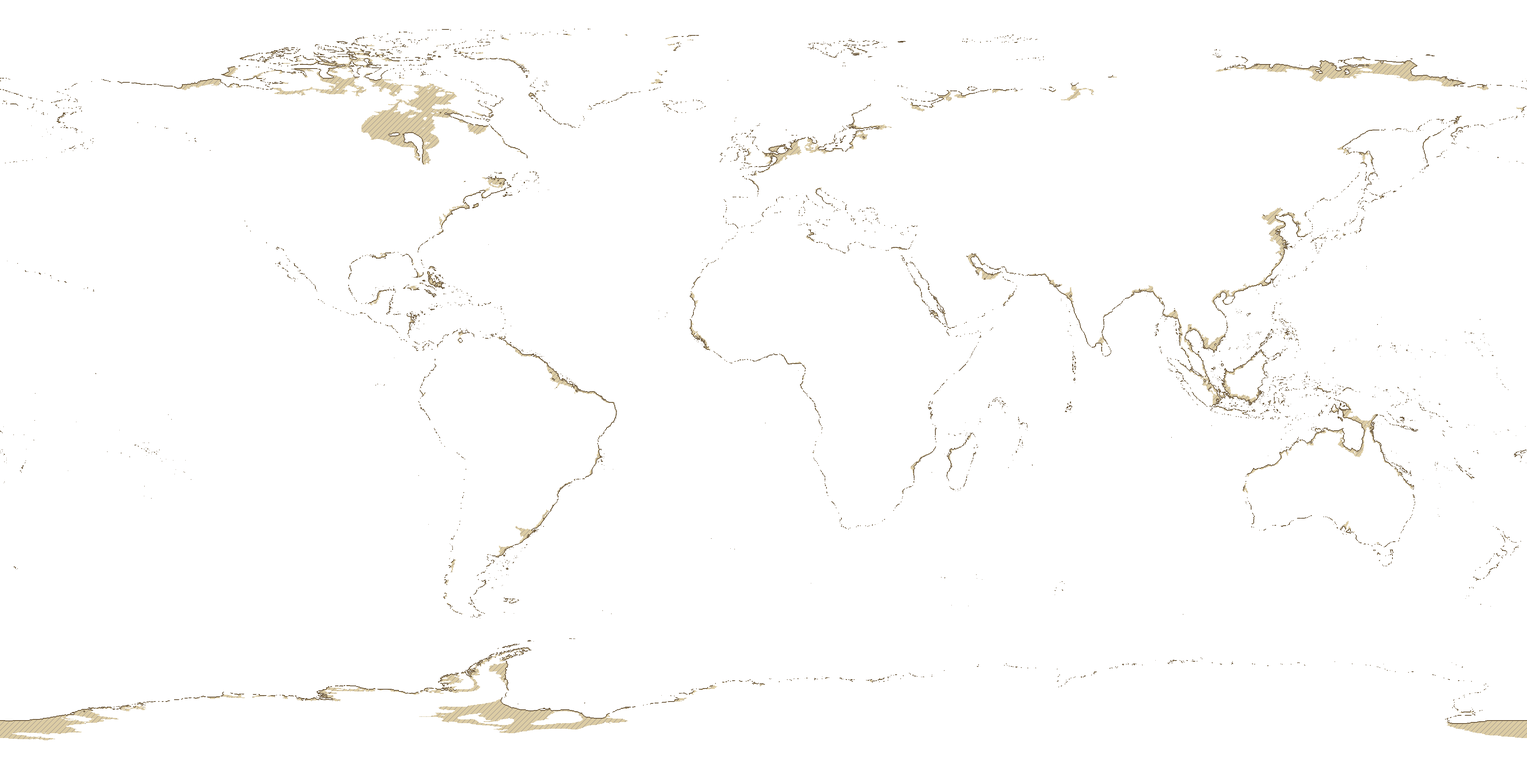
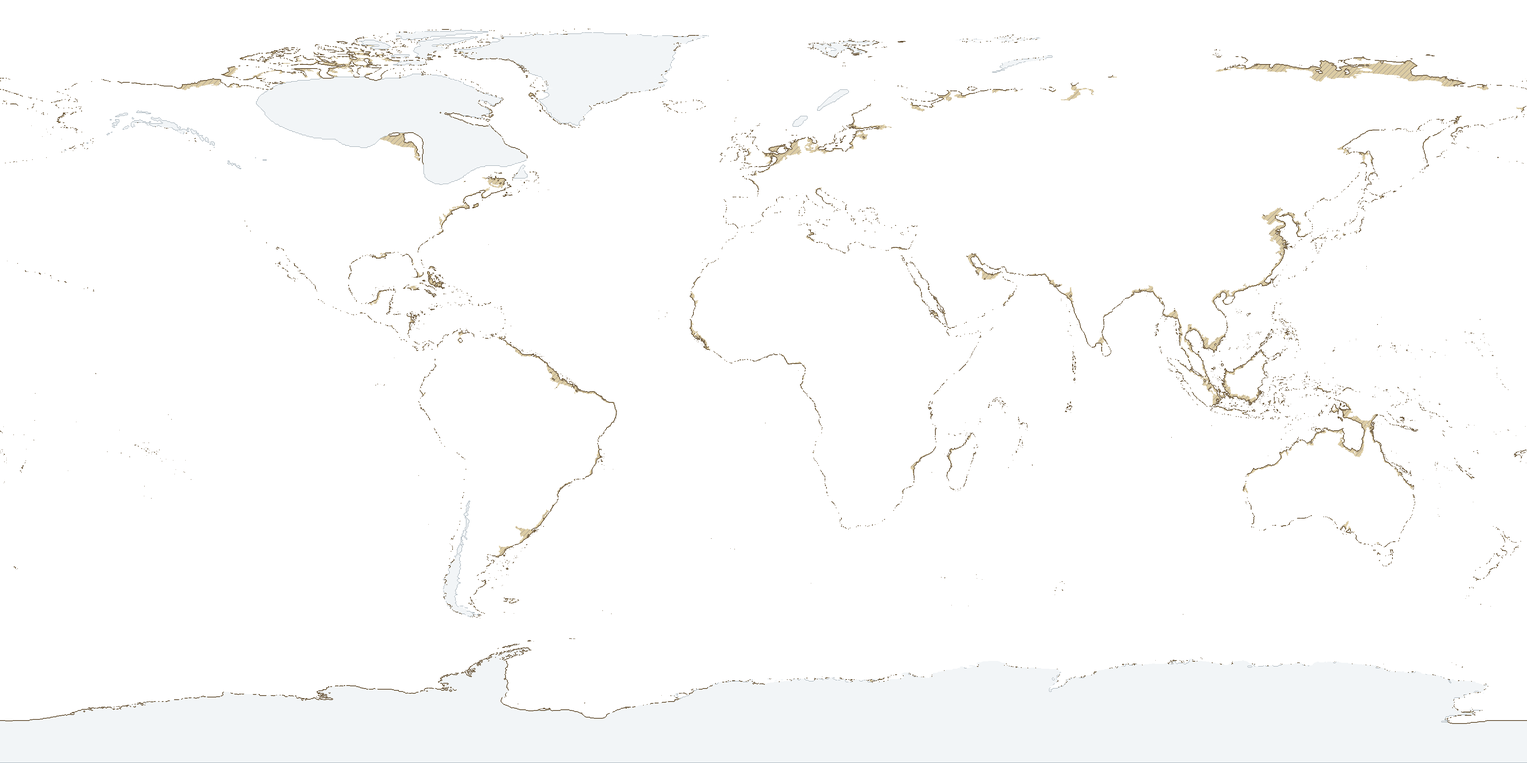
Istidens kust: inlandsisen ritas för sig (#1564)
Enligt DasKrokodils beslut på #1564 ritas inlandsisen nu i en egen ljus,
nästan vit stil utan snedstreck, ur PaleoMIST 1.0:s istjocklek
(PANGAEA.905800, CC BY 4.0, samma källa som tidigare). Wilmes rutnät har
inget isfält. Varianten utan a1 valdes eftersom den stämmer med Wilmes
hav i Hudson Bay för 42 500 och 40 000 år sedan; texten säger det öppet.

- tools/istidens_kust.py: --ice, hämtar bara isfilen ur zip-filen med
  Range-anrop och kontrollerar licensen; nio bilder ombyggda (41-64 kB)
- data/bildlager.json: fältet keys (rad för torrlagt och för is på fem
  språk), ny caveat och note utan "land eller is"
- teckenförklaringen, schema, validering, CSS, tester och dokumentation
- docs/beslut/2026-11-14-inlandsis-i-istidens-kust.md

Claude-Session: https://claude.ai/code/session_019xNoaDfQRcbY1RwQad4teA

diff --git a/js/ui/legend.js b/js/ui/legend.js
@@ -104,7 +104,7 @@ export class ReligionLegend {
    * discovery (upptäcktsvyn, #101) = { perspective, credit, sources: [{ title, url }], coverage } eller null.
    * spread (människans spridning, #1094) = { items: [{ kind, certainty, color, title, summary, note, sources }] } eller null;
    * listan är också kartans textalternativ (#1106).
-   * images (bildlagren, #1096) = [{ id, title, text, sources: [{ title, url }] }] eller null: skivor med en text om
+   * images (bildlagren, #1096) = [{ id, title, text, keys: [{ swatch, text }], sources: [{ title, url }] }] eller null: skivor med en text om
    * osäkerheten, till exempel istidens kust, som annars bara syns som färg.
    * Finns inget att förklara döljs rutan.
    */
@@ -148,10 +148,12 @@ export class ReligionLegend {
     }).join('')}</ul></div>`;
     // Bildlagren (#1096): ett tecken som på kartan (ljus yta med snedstreck och mörk kant), osäkerheten i text och källorna.
     // När bara bildlagret förklaras står skivans rubrik i knappen (så att "modell" syns hopfälld i mobil) och upprepas inte.
-    const imagesHtml = !images ? '' : images.map(n => `<div class="rl-images" data-image-note="${esc(n.id)}">
-      ${n.title === title ? '' : `<p class="rl-note rl-row"><span class="swatch rl-shelf" aria-hidden="true"></span><strong>${esc(n.title)}</strong></p>`}
-      <p class="rl-image-text">${n.title === title ? '<span class="swatch rl-shelf" aria-hidden="true"></span> ' : ''}${esc(n.text)}${n.sources.length ? ` ${esc(ui('legend.spreadSources'))} ${
-        n.sources.map((src, k) => `<a class="rl-spread-src" href="${esc(src.url)}" target="_blank" rel="noopener noreferrer">${k + 1}<span class="sr-only"> ${esc(src.title)} ${esc(ui('legend.newTab'))}</span></a>`).join(', ')}.` : ''}</p></div>`).join('');
+    // Har raden keys (#1564) står ett tecken per ytstil på egen rad, och rubriken och texten står utan tecken.
+    const imagesHtml = !images ? '' : images.map(n => { const keyed = !!n.keys?.length; return `<div class="rl-images" data-image-note="${esc(n.id)}">
+      ${n.title === title ? '' : `<p class="rl-note rl-row">${keyed ? '' : '<span class="swatch rl-shelf" aria-hidden="true"></span>'}<strong>${esc(n.title)}</strong></p>`}
+      ${keyed ? n.keys.map(k => `<p class="rl-note rl-row" data-image-key="${esc(k.swatch)}"><span class="swatch rl-${esc(k.swatch)}" aria-hidden="true"></span>${esc(k.text)}</p>`).join('') : ''}
+      <p class="rl-image-text">${n.title === title && !keyed ? '<span class="swatch rl-shelf" aria-hidden="true"></span> ' : ''}${esc(n.text)}${n.sources.length ? ` ${esc(ui('legend.spreadSources'))} ${
+        n.sources.map((src, k) => `<a class="rl-spread-src" href="${esc(src.url)}" target="_blank" rel="noopener noreferrer">${k + 1}<span class="sr-only"> ${esc(src.title)} ${esc(ui('legend.newTab'))}</span></a>`).join(', ')}.` : ''}</p></div>`; }).join('');
     // Vad symbolerna betyder (#271)
     const symbolsHtml = !items.length ? '' : `<p class="rl-note rl-sym-note">${esc(ui('legend.symbolsNote'))}</p>`;
     // Faktarutan på begäran (#308), när någon religion som syns har en

diff --git a/css/style.css b/css/style.css
@@ -17,6 +17,8 @@
   --land: #c8b48a;
   --shelf: #d6c496;         /* istidens kust (#1096): torrlagd yta, samma ton som bilderna i images/lager/istidens-kust-*.webp */
   --shelf-ink: #503a19;     /* istidens kust: snedstreck och kustlinje */
+  --ice: #f1f4f6;           /* istidens kust (#1564): inlandsis i modellen, samma ton som i bilderna */
+  --ice-edge: #788a96;      /* istidens kust: isens kant mot isfritt land */
   --danger: #e0675a;
   --ok: #8fc48e;
   --medal: #10202c;        /* markörernas botten (#242), samma som GROUND i layers/events.js */
@@ -1799,6 +1801,7 @@ details.used-by summary:hover { color: var(--parchment); }
 .religion-legend .rl-image-text { display: block; margin: 3px 0 0; font: 400 12px/1.4 var(--f-body); color: var(--parchment-dim); }
 .religion-legend .rl-image-text .swatch { display: inline-block; vertical-align: -1px; }
 .religion-legend .rl-shelf { border-bottom: 2px solid var(--shelf-ink); box-sizing: border-box; background: repeating-linear-gradient(45deg, var(--shelf-ink) 0 1.2px, var(--shelf) 1.2px 5px); }
+.religion-legend .rl-ice { border: 1px solid var(--ice-edge); box-sizing: border-box; background: var(--ice); }
 .religion-legend .rl-fade { display: block; margin-top: 6px; padding-top: 4px; border-top: 1px solid var(--line); }
 .religion-legend .rl-fade .link-btn { font: inherit; padding: 0; }
 .religion-legend .rl-body > .rl-fade:first-child { margin-top: 0; padding-top: 0; border-top: 0; }

diff --git a/js/layers/images.js b/js/layers/images.js
@@ -44,6 +44,8 @@ export function boundsRect(bounds, W, H) {
 export function imageNotes(built, srcById = {}) {
   return built.filter(b => b.layer.active?.caveat).map(({ row, layer: { active: x } }) => ({
     id: row.id, title: t(x.title ?? row.name), text: t(x.caveat),
+    // Radens tecken (#1564): en rad per ytstil i bilden, till exempel torrlagt land och inlandsis
+    keys: (row.keys ?? []).map(k => ({ swatch: k.swatch, text: t(k.text) })),
     sources: (x.sources ?? []).map(id => srcById[id]).filter(Boolean).map(src => ({ title: src.title, url: src.url })),
   }));
 }

diff --git a/tools/istidens_kust.py b/tools/istidens_kust.py
@@ -8,24 +8,36 @@ på ett rutnät om 1/8 grad, 2880 × 1400 punkter, −85,9375 till 88,9375 grade
 big-endian och läses som datamängdens egen grd_in.m (Fortran-poster: n, m, latituder, longituder, dt, nob,
 sedan hz som float och mz som long).
 
-Bilden visar bara skillnaden mot i dag i samma modell: ytor som är hav i steget 0 år sedan men inte var hav i
-det valda steget. De fylls med en ljusare landton med glesa snedstreck (tolkning, beslutet 2026-11-13 om
-osäkerhetens språk), och den modellerade kusten ritas som en mörk linje. Allt annat är genomskinligt, så att
-grundkartans nutida land syns under. Bilden är ekvirektangulär 4096 × 2048 (−180…180, 90…−90), som
-lagerbilden (beslut 1), och sparas som WebP med alfakanal i images/lager/.
+Masken skiljer inte land från is (land har alltid hz = 2,0). Inlandsisen (#1564) tas därför ur PaleoMIST 1.0 själv
+(Gowan 2019, PANGAEA, doi:10.1594/PANGAEA.905800, CC BY 4.0): fältet ice_thickness ("grounded ice thickness", meter)
+i global_grid/reconstruction_0.25_degree.nc i datamängdens zip-fil, ett rutnät om 1/4 grad med ett tidssteg vart
+2 500:e år. Filen är den "minimala" varianten för Nordamerika under MIS 3, där Hudson Bay blir isfri en tid (varianten
+"a1" har is över Hudson Bay hela tiden). Wilmes rutnät säger inte vilken variant de bygger på, men deras mask har
+hav i Hudson Bay för 42 500 och 40 000 år sedan, som den minimala varianten och inte som a1 (jämfört 2026-11-14).
+
+Bilden visar skillnaden mot i dag i samma modell och isen: ytor som är hav i steget 0 år sedan men inte var hav i
+det valda steget fylls med en ljusare landton med glesa snedstreck (tolkning, beslutet 2026-11-13 om
+osäkerhetens språk), och den modellerade kusten ritas som en mörk linje. Inlandsisen (istjocklek över ICE_MIN) ritas
+ovanpå i en ljus, nästan vit ton utan snedstreck och med en grå kant, både på dagens land och på torrlagd havsbotten,
+men aldrig där masken har hav. Allt annat är genomskinligt, så att grundkartans nutida land syns under. Bilden är
+ekvirektangulär 4096 × 2048 (−180…180, 90…−90), som lagerbilden (beslut 1), och sparas som WebP med alfakanal i
+images/lager/.
 
 Kör från projektets rot:
-    python3 tools/istidens_kust.py --grids <katalog> [--steps 10 15 20 30 40 50 60 70 80]
+    python3 tools/istidens_kust.py --grids <katalog> --ice <fil.nc> [--steps 10 15 20 30 40 50 60 70 80]
 Saknas en fil i <katalog> hämtas den från Zenodo (cirka 32 MB per steg) och kontrolleras mot md5-summan i
-Zenodos API. Lägg inte rutnäten i repot. Kräver numpy och Pillow (som tools/riken.py och tools/bilder_in.py).
+Zenodos API. Saknas <fil.nc> hämtas bara den filen (554 MB) ur PANGAEA:s zip-fil (3,5 GB) med Range-anrop. Lägg inte
+rutnäten i repot. Kräver numpy och Pillow (som tools/riken.py och tools/bilder_in.py) och h5py för isfilen (NetCDF 4).
 Skivorna i data/bildlager.json (raden "istidens-kust") skrivs för hand efter körningen; verktyget skriver ut
 filerna, storlekarna och hur stor del av bilden som är torrlagd.
 """
 import argparse
 import hashlib
 import json
+import io
 import struct
 import urllib.request
+import zipfile
 from pathlib import Path
 
 import numpy as np
@@ -37,6 +49,10 @@ RECORD = 'https://zenodo.org/api/records/8147509'
 FILE_URL = 'https://zenodo.org/records/8147509/files/{name}?download=1'
 NAME = 'grid_gowan_glacial_1_8_{k}kyrBP_flon'
 W, H = 4096, 2048
+ICE_ZIP = 'https://hs.pangaea.de/Maps/Global_Ice_Sheets/Gowan_ice_reconstruction.zip'
+ICE_MEMBER = 'ice_reconstruction/global_grid/reconstruction_0.25_degree.nc'
+ICE_META = 'https://doi.pangaea.de/10.1594/PANGAEA.905800?format=metainfo_xml'
+ICE_MIN = 1.0  # meter: tunnare räknas inte som is (fältet har små negativa värden från omprojiceringen)
 
 # Färgerna följer grundkartan (js/globe.js: land #cdb88d, kust rgba(80,58,25,…)), men ljusare, så att den
 # modellerade kusten skiljer sig från dagens land. Snedstrecken säger att ytan är en tolkning.
@@ -44,6 +60,10 @@ FILL = (214, 196, 150, 220)
 HATCH = (80, 58, 25, 120)
 COAST = (80, 58, 25, 235)
 HATCH_EVERY, HATCH_WIDTH, COAST_WIDTH = 14, 2, 3
+# Inlandsisen (#1564): ljus, nästan vit, utan snedstreck, med en grå kant mot land så att den skiljer sig från
+# både den torrlagda ytan och grundkartans land (css/style.css: --ice, --ice-edge).
+ICE = (241, 244, 246, 235)
+ICE_EDGE = (120, 138, 150, 220)
 
 
 def md5_of(path):
@@ -63,6 +83,54 @@ def fetch(name, folder, checksums):
     if want and md5_of(path) != want:
         raise SystemExit(f'{name}: md5 stämmer inte med Zenodo ({want})')
     return path
+
+
+class _RangeFile(io.RawIOBase):
+    """Läser en fil på webben med Range-anrop, så att zipfile kan plocka ut en enda fil ur PANGAEA:s zip-fil."""
+
+    def __init__(self, url):
+        self.url, self.pos = url, 0
+        with urllib.request.urlopen(urllib.request.Request(url, method='HEAD')) as r:
+            self.size = int(r.headers['Content-Length'])
+
+    def readable(self): return True
+    def seekable(self): return True
+    def tell(self): return self.pos
+
+    def seek(self, offset, whence=0):
+        self.pos = offset if whence == 0 else self.pos + offset if whence == 1 else self.size + offset
+        return self.pos
+
+    def readinto(self, buf):
+        if self.pos >= self.size or not len(buf):
+            return 0
+        end = min(self.pos + len(buf), self.size) - 1
+        with urllib.request.urlopen(urllib.request.Request(self.url, headers={'Range': f'bytes={self.pos}-{end}'})) as r:
+            data = r.read()
+        buf[:len(data)] = data
+        self.pos += len(data)
+        return len(data)
+
+
+def fetch_ice(path):
+    """Isfilen ur PaleoMIST 1.0; hämtas ur zip-filen om den saknas. Stannar om licensen på PANGAEA har ändrats."""
+    with urllib.request.urlopen(ICE_META) as r:
+        if b'<md:label>CC-BY-4.0</md:label>' not in r.read():
+            raise SystemExit('PaleoMIST 1.0 har inte längre licensen CC BY 4.0 på PANGAEA: stanna och kontrollera.')
+    if not path.exists():
+        print(f'Hämtar {ICE_MEMBER} ur {ICE_ZIP} …')
+        with zipfile.ZipFile(io.BufferedReader(_RangeFile(ICE_ZIP), buffer_size=1 << 23)) as z, \
+                z.open(ICE_MEMBER) as src, open(path, 'wb') as dst:
+            for chunk in iter(lambda: src.read(1 << 22), b''):
+                dst.write(chunk)
+    return path
+
+
+def read_ice(path):
+    """(latituder, longituder, tider i år före 1950, istjocklek[tid, latitud, longitud]) ur isfilen."""
+    import h5py  # bara för isfilen, som är NetCDF 4 (HDF5)
+    f = h5py.File(path, 'r')
+    return f['lat'][:], f['lon'][:], -f['time'][:], f['ice_thickness']
 
 
 def read_grid(path):
@@ -145,10 +213,11 @@ def dilate(a, r):
     return out
 
 
-def render(shown, then_sea):
-    """shown = andel torrlagt som visas, then_sea = andel hav i steget, båda samplade till lagerbilden."""
+def render(shown, then_sea, ice):
+    """shown = andel torrlagt som visas, then_sea = andel hav i steget, ice = andel is, samplade till lagerbilden."""
     exposed = np.nan_to_num(shown) >= 0.5
     then_water = np.nan_to_num(then_sea) >= 0.5
+    iced = (np.nan_to_num(ice) >= 0.5) & ~then_water
     # Kusten: torrlagda pixlar som gränsar till dåtidens hav, förtjockad till COAST_WIDTH
     edge = exposed & (np.roll(then_water, 1, 0) | np.roll(then_water, -1, 0) | np.roll(then_water, 1, 1) | np.roll(then_water, -1, 1))
     edge = dilate(edge, COAST_WIDTH // 2) & ~then_water | edge
@@ -157,13 +226,20 @@ def render(shown, then_sea):
     img = np.zeros((H, W, 4), np.uint8)
     img[exposed] = FILL
     img[hatch] = HATCH
+    img[iced] = ICE
+    # Isens kant mot isfritt land (inte mot hav, där kustlinjen står), en pixel bred
+    land = ~iced & ~then_water
+    rim = iced & (np.roll(land, 1, 0) | np.roll(land, -1, 0) | np.roll(land, 1, 1) | np.roll(land, -1, 1))
+    img[rim] = ICE_EDGE
     img[edge] = COAST
-    return img, exposed
+    return img, exposed, iced
 
 
 def main():
     ap = argparse.ArgumentParser(description=__doc__.splitlines()[0])
     ap.add_argument('--grids', required=True, type=Path, help='katalog för rutnäten (hämtas dit om de saknas)')
+    ap.add_argument('--ice', required=True, type=Path,
+                    help='isfilen reconstruction_0.25_degree.nc ur PaleoMIST 1.0 (hämtas dit om den saknas)')
     ap.add_argument('--steps', nargs='+', default=['10', '15', '20', '30', '40', '50', '60', '70', '80'],
                     help='tidssteg i tusental år före 1950 (Gowan-serien har vart 2,5:e, 0–80)')
     args = ap.parse_args()
@@ -174,16 +250,23 @@ def main():
     if record['metadata'].get('license', {}).get('id') != 'cc-by-4.0':
         raise SystemExit('Datamängdens licens är inte längre CC BY 4.0 på Zenodo: stanna och kontrollera.')
     lats, lons, now = read_grid(fetch(NAME.format(k='0'), args.grids, checksums))
+    ice_lats, ice_lons, ice_years, thickness = read_ice(fetch_ice(args.ice))
     OUT.mkdir(parents=True, exist_ok=True)
     for k in args.steps:
         la, lo, mz = read_grid(fetch(NAME.format(k=k), args.grids, checksums))
         if not (np.array_equal(la, lats) and np.array_equal(lo, lons)):
             raise SystemExit(f'Steget {k}: rutnätet skiljer sig från steget 0')
         shown, enclosed = exposed_on_grid(mz, now, lats, lons)
-        img, exposed = render(sample(shown, lats, lons), sample(mz == 1, lats, lons))
+        hit = np.flatnonzero(ice_years == float(k) * 1000)
+        if len(hit) != 1:
+            raise SystemExit(f'Steget {k}: isfilen saknar tidssteget')
+        iced_grid = np.nan_to_num(thickness[hit[0]]) > ICE_MIN
+        img, exposed, iced = render(sample(shown, lats, lons), sample(mz == 1, lats, lons),
+                                    sample(iced_grid, ice_lats, ice_lons))
         path = OUT / f'istidens-kust-{k.replace(".", "-")}ka.webp'
         Image.fromarray(img, 'RGBA').save(path, 'WEBP', lossless=True, quality=100, method=6)
         print(f'{path.relative_to(ROOT)}: {path.stat().st_size // 1024} kB, torrlagt {exposed.mean() * 100:.2f} % av bilden, '
+              f'is {iced.mean() * 100:.2f} % av bilden, '
               f'avskilt hav i dag {enclosed.mean() * 100:.2f} % av rutnätet')
 
 

diff --git a/scripts/validate-site.py b/scripts/validate-site.py
@@ -425,7 +425,7 @@ for path, tour in tours:
     validate_schema_file(path, tour, 'tour.schema.json')
 
 # 8b2. Bildlager (#54, formatet @2 i #1325): schemat och det som den lilla schemakontrollen inte kan uttrycka.
-IMAGE_ROW_KEYS = {'id', 'kind', 'aliases', 'group', 'name', 'note', 'label', 'slices'}
+IMAGE_ROW_KEYS = {'id', 'kind', 'aliases', 'group', 'name', 'note', 'label', 'keys', 'slices'}
 IMAGE_SLICE_KEYS = {'id', 'title', 'format', 'file', 'width', 'height', 'from', 'to', 'bounds', 'opacity',
                     'caveat', 'sources', 'review', 'license'}
 IMAGE_MAX_PIXELS = 4096 * 2048  # en avkodad bild på 4096 × 2048 tar cirka 32 MB i minnet

diff --git a/README.md b/README.md
@@ -156,7 +156,7 @@ tools/religioner.py   bygger religionslagret (data/religions.json) ur Cliopatria
 tools/religioner_riken.py  bygger rikenas gränser för religionslagrets klickruta ur Cliopatria
 tools/matning_hopp.mjs mäter hur länge sidan inte svarar vid ett långt hopp i tiden (Playwright, #692)
 tools/license_manifests.py  genererar data/licenses.json och images/licenses.json; validate-site.py kontrollerar att de är aktuella
-tools/istidens_kust.py  gör bilderna till bildlagret Istidens kust ur PaleoMIST 1.0 via Wilmes m.fl. (Zenodo 8147509); hämtar rutnäten vid behov, kräver numpy och Pillow (#1096)
+tools/istidens_kust.py  gör bilderna till bildlagret Istidens kust ur PaleoMIST 1.0 via Wilmes m.fl. (Zenodo 8147509); inlandsisen ur PaleoMIST:s istjocklek (#1564); hämtar rutnäten och isfilen vid behov, kräver numpy, Pillow och h5py (#1096)
 data/empires/         riken med utbredning per period, en fil per rike och index.json (Cliopatria)
 data/borders.json     dagens landsgränser (Natural Earth)
 data/routes/          vägar och resor (lagertyp linje): index.json och en fil per resa eller väg
@@ -229,7 +229,7 @@ Se också [licenssammanställningen](CONTENT-LICENSE.md), [tredjepartsnotiserna]
 - **Grundkartan** i `data/land.json` (1:50m), den finare kusten i `data/land-10m.json` (1:10m, bara för det skarpa utsnittet vid inzoomning) och **dagens landsgränser** i `data/borders.json` bygger på [Natural Earth](https://www.naturalearthdata.com/) (public domain) via world-atlas. **Platsernas gränser** i `data/platser.json` (#579) är Natural Earth admin 0 för länder och Natural Earth 1:10m admin 1 (`ne_10m_admin_1_states_provinces` 5.1.2, public domain) för län, uttagna med `tools/platser_gransar.py`; kortet för Skåne anger att konturen är Skåne län och inte landskapet.
 - **Rikenas utbredning** i `data/empires/` är ett förenklat utdrag ur [Cliopatria](https://github.com/Seshat-Global-History-Databank/cliopatria) från Seshat Global History Databank, licensierat under [CC BY 4.0](https://creativecommons.org/licenses/by/4.0/). Ändringar: bara de riken som listas i `data/empires/index.json` är med, geometrin är förenklad och perioder med nästan samma gräns är sammanslagna (`tools/riken.py`).
 - **Nattljus 2016** i `images/lager/nattljus-2016.jpg` kommer från [NASA Earth Observatory: Black Marble](https://science.nasa.gov/earth/earth-observatory/earth-at-night/maps/) och är **public domain i USA enligt NASA:s riktlinjer för bilder**. NASA:s logotyp och märken är skyddade; bilden innehåller ingen NASA-logotyp. Bilden är NASA:s globala JPEG i 3600 × 1800, utan innehållsliga ändringar.
-- **Istidens kust** i `images/lager/istidens-kust-*.webp` (#1096) bygger på rutnäten med land och hav för serien Gowan i Wilmes, Pedersen, Schindelegger och Green (2023), [Late Pleistocene evolution of tides and tidal dissipation: tidal simulations](https://zenodo.org/records/8147509) (Zenodo, [CC BY 4.0](https://creativecommons.org/licenses/by/4.0/)), som i sin tur bygger på inlandsis- och topografirekonstruktionen PaleoMIST 1.0: Gowan (2019), [Global ice sheet reconstruction for the past 80000 years](https://doi.org/10.1594/PANGAEA.905800) (PANGAEA, CC BY 4.0), och Gowan m.fl. (2021), [A new global ice sheet reconstruction for the past 80 000 years](https://doi.org/10.1038/s41467-021-21469-w) (*Nature Communications* 12, 1199, CC BY 4.0). Ändringar: nio tidssteg, bara ytor som är hav i dag men inte i modellen (med snedstreck) och den modellerade kustlinjen, omräknade till en ekvirektangulär bild 4096 × 2048; Kaspiska havet och Svarta havet, som saknar förbindelse med världshavet i modellens rutnät, är inte med (`tools/istidens_kust.py`).
+- **Istidens kust** i `images/lager/istidens-kust-*.webp` (#1096) bygger på rutnäten med land och hav för serien Gowan i Wilmes, Pedersen, Schindelegger och Green (2023), [Late Pleistocene evolution of tides and tidal dissipation: tidal simulations](https://zenodo.org/records/8147509) (Zenodo, [CC BY 4.0](https://creativecommons.org/licenses/by/4.0/)), som i sin tur bygger på inlandsis- och topografirekonstruktionen PaleoMIST 1.0: Gowan (2019), [Global ice sheet reconstruction for the past 80000 years](https://doi.org/10.1594/PANGAEA.905800) (PANGAEA, CC BY 4.0), och Gowan m.fl. (2021), [A new global ice sheet reconstruction for the past 80 000 years](https://doi.org/10.1038/s41467-021-21469-w) (*Nature Communications* 12, 1199, CC BY 4.0). Ändringar: nio tidssteg, bara ytor som är hav i dag men inte i modellen (med snedstreck), den modellerade kustlinjen och inlandsisen ur PaleoMIST:s istjocklek (`global_grid/reconstruction_0.25_degree.nc`, varianten utan a1, #1564), omräknade till en ekvirektangulär bild 4096 × 2048; Kaspiska havet och Svarta havet, som saknar förbindelse med världshavet i modellens rutnät, är inte med (`tools/istidens_kust.py`).
 - **Faktarutorna om riken** (`facts` i `data/empires/index.json`) är egna korta sammanfattningar av Wikipedias artiklar om rikena (CC BY-SA). Medeltidens riken (#69) är dessutom kontrollerade mot World History Encyclopedia (CC BY-NC-SA, bara länkad, ingen text kopierad), och de tidigmoderna rikena (#70) mot World History Encyclopedia eller Wikidata (CC0). Kolonialvälden och moderna imperier (#71) bygger på Wikipedia, för det nederländska och tyska väldet, Japan och Etiopien kompletterat med World History Encyclopedia (bara länkad). Artiklarna länkas från rutorna och från källregistret.
 - **Herodotos text** (Macaulays översättning, bok 9, [Project Gutenberg](https://www.gutenberg.org/ebooks/2456)) är public domain och används bara som länkad källa för siffrorna i anteckningen om slaget vid Plataiai (#941); ingen text är kopierad.
 - **Nordiska uppslagsverk** (Platser-piloten, #579): [Lex.dk](https://lex.dk/) (Den Store Danske, med artiklar från danmarkshistorien.dk) och [Store norske leksikon](https://snl.no/) är märkta "begränsad återanvändning" och används bara som länkade källor för årtal och plats; ingen text är kopierad. Nordisk familjebok (andra upplagan, Uggleupplagan, på [Projekt Runeberg](https://runeberg.org/)) är public domain och används också bara som länkad källa med egna sammanfattningar.

diff --git a/docs/beslut/2026-11-14-inlandsis-i-istidens-kust.md b/docs/beslut/2026-11-14-inlandsis-i-istidens-kust.md
@@ -1,0 +1,19 @@
+# Inlandsisen i bildlagret Istidens kust (#1564)
+
+**Datum:** 2026-11-14 (DasKrokodils beslut på #1564: isen ritas för sig om PaleoMIST har isdata med förenlig licens; stilen ljus, nästan vit, utan snedstreck, med egen rad i teckenförklaringen)
+
+## Beslut
+1. **Isen ritas för sig.** Bilderna i `images/lager/istidens-kust-*.webp` har tre ytstilar: torrlagd havsbotten (ljus landton med snedstreck, som förut), inlandsis (`#f1f4f6`, nästan vit, utan snedstreck, med en grå kant `#788a96` mot isfritt land) och kustlinjen. Isen ritas både på dagens land och på torrlagd havsbotten, men aldrig där Wilmes mask har hav, så att kusten och isen inte säger emot varandra. Ändrar punkt 4 i [beslutet om istidens kust](2026-11-14-istidens-kust.md).
+2. **Källan för isen är PaleoMIST 1.0 själv:** fältet `ice_thickness` ("grounded ice thickness", meter) i `global_grid/reconstruction_0.25_degree.nc` i Gowan (2019) på PANGAEA (doi:10.1594/PANGAEA.905800). PANGAEA anger licensen CC-BY-4.0, och sidan säger: "These datasets include ice thickness calculated using the program ICESHEET … NetCDF files of the ice thickness … are included at 1 and 0.25 degree grids". Det är samma källa som redan står i `data/sources.json` (`gowan-2019-paleomist-data`), så ingen ny källa eller licens tillkommer. Is räknas där istjockleken är över 1 meter. Wilmes rutnät (Zenodo 8147509) har inget isfält: masken `mz` är bara 0 eller 1, och vattendjupet `hz` är alltid 2,0 på land.
+3. **Varianten utan a1.** PaleoMIST har två varianter av Nordamerikas is under MIS 3. Enligt datamängdens readme har den minimala varianten en tid då Hudson Bay är isfri, och filerna för den maximala varianten slutar på "a1". Wilmes m.fl. säger inte vilken variant deras Gowan-serie bygger på (Zenodo-beskrivningen säger bara "the Gowan and ICE-6G bathymetries", och artikeln gick inte att öppna). Valet gjordes därför genom jämförelse, 2026-11-14, i rutan 56–64° N, 94–79° V: Wilmes mask har hav på 55 % av rutan för 42 500 år sedan och 8 % för 40 000 år sedan. Den minimala varianten har där 44 % respektive 6 % isfritt hav, medan a1 har is på hela rutan. I övriga jämförda steg (0–80 000 år) är varianterna lika i rutan. Därför används varianten utan a1, och texten i teckenförklaringen säger hur valet gjordes.
+4. **Teckenförklaringen** får en rad per ytstil, med fältet `keys` på raden i `data/bildlager.json` (`shelf` och `ice`, text på fem språk). Texten "land eller is" är borttagen. `caveat` säger nu att vita ytor är inlandsis i modellen, att Grönland och Antarktis har is också i dag, hur varianten valdes, och att modellen bara har de stora inlandsisarna (Nordamerika med Grönland, Eurasien, Antarktis och Patagonien, mappnamnen i datamängden), så att mindre glaciärer, till exempel i Alperna, saknas.
+5. **Verktyget** `tools/istidens_kust.py` tar `--ice <fil.nc>`. Saknas filen hämtas bara den (554 MB) ur PANGAEA:s zip-fil på 3,5 GB med Range-anrop, efter en kontroll av att licensen fortfarande är CC BY 4.0. Isfilen är NetCDF 4, så verktyget kräver h5py utöver numpy och Pillow. Rådata läggs aldrig i repot.
+
+## Motivering
+Utan isen såg Hudson Bay, Östersjön och Barents hav ut som torrt land vid 20 000 år sedan, fast modellen täcker dem med is. Det är fel för en elev som ser kartan. Isen kommer ur samma rekonstruktion som kusten och har samma licens, så den rättar bilden utan att lägga till en ny källa.
+
+## Kontrollerat i bilderna
+Vid 20 000 år sedan är Hudson Bay, Östersjön, Bottniska viken, Barents hav, Weddellhavet och Rosshavet is, och Beringia, Sunda och Sahul är torrlagt land utan is (webbläsartestet "istidens kust" kontrollerar Hudson Bay, Östersjön, Barents hav, Beringia, Sunda och Sahul). Vid kanten av Antarktis kan Wilmes mask ha hav där PaleoMIST har is; där visas havet, enligt punkt 1.
+
+## Berör
+`tools/istidens_kust.py`, `images/lager/istidens-kust-*.webp`, `data/bildlager.json`, `data/sources.json`, `schemas/bildlager.schema.json`, `scripts/validate-site.py`, `js/layers/images.js`, `js/ui/legend.js`, `css/style.css`, `tests/images.test.mjs`, `tests/webblasare.mjs`, `README.md`, `THIRD-PARTY-NOTICES.md`, `docs/datamodell.md`, #1564. Ändrar punkt 4 och 6 och den första kända begränsningen i [beslutet om istidens kust](2026-11-14-istidens-kust.md).

diff --git a/docs/datamodell.md b/docs/datamodell.md
@@ -787,6 +787,7 @@ Färdigprojicerade SVG-banor i 4096 × 2048 (`path`, `width`, `height`) från Na
 | `name` | ja | Radens namn, på alla fem språken. |
 | `note` | nej | Förklaringen efter namnet i Lager, på alla fem språken. |
 | `label` | ja när `kind` är `grund` | Den synliga märkningen av en växlande grundkarta, på alla fem språken. En grundkarta som inte är dagens ska alltid vara märkt. |
+| `keys` | nej | Teckenförklaringens rader för radens ytstilar (#1564): en lista med `swatch` (`shelf`: ljus yta med snedstreck, `ice`: ljus, nästan vit yta med grå kant) och `text` på alla fem språken. Varje rad står med sitt tecken i teckenförklaringen när en skiva med `caveat` syns. Saknas fältet visas ett tecken (`shelf`) framför rubriken. |
 | `slices` | ja, minst en | Tidsskivorna. Inom en rad får perioderna inte överlappa, så högst en skiva gäller ett visst år. |
 
 **En post i `slices` är en bild eller en vektor för en period.**
@@ -816,7 +817,7 @@ Färdigprojicerade SVG-banor i 4096 × 2048 (`path`, `width`, `height`) från Na
 
 **Kontroller.** `scripts/validate-site.py` kör schemat och det schemat inte kan uttrycka: okända fält, upptagna id och alias, gruppen, `label` för `grund`, bildens storlek, `bounds`, perioder som överlappar, och att filer och källor finns. `tests/validate-schema-test.py` godkänner exempelfilen `tests/fixtures/bildlager-exempel.json`, som övar hela formatet, och underkänner avsiktliga fel. `tests/images.test.mjs` kontrollerar urvalet av rader och skivor, rutan för `bounds`, rensningen av bilder och att varje lager i länkarkivet finns kvar, direkt eller som alias.
 
-Första raden är NASA Black Marble 2016 (`nattljus`), från 2016 och framåt. Den andra är **Istidens kust** (`istidens-kust`, #1096): nio skivor med den modellerade kusten 10 000–80 000 år sedan ur PaleoMIST 1.0 (Gowan m.fl. 2021) via rutnäten i Wilmes m.fl. (2023), gjorda med `tools/istidens_kust.py`. Modellens år är år före 1950 (BP), så skivan för 20 000 år sedan börjar år 1950 − 25 000 = −23 050; varje skiva gäller fram till mitten mot nästa steg, den yngsta till 7 500 år sedan och den äldsta från 81 250 år sedan. Varje skiva har `caveat` om att kusten är modellerad och att kartans kust annars är nutida ([beslut 2026-11-14](beslut/2026-11-14-istidens-kust.md)).
+Första raden är NASA Black Marble 2016 (`nattljus`), från 2016 och framåt. Den andra är **Istidens kust** (`istidens-kust`, #1096): nio skivor med den modellerade kusten 10 000–80 000 år sedan ur PaleoMIST 1.0 (Gowan m.fl. 2021) via rutnäten i Wilmes m.fl. (2023), gjorda med `tools/istidens_kust.py`. Modellens år är år före 1950 (BP), så skivan för 20 000 år sedan börjar år 1950 − 25 000 = −23 050; varje skiva gäller fram till mitten mot nästa steg, den yngsta till 7 500 år sedan och den äldsta från 81 250 år sedan. Varje skiva har `caveat` om att kusten är modellerad och att kartans kust annars är nutida ([beslut 2026-11-14](beslut/2026-11-14-istidens-kust.md)). Inlandsisen ritas för sig i en ljus, nästan vit ton ur PaleoMIST:s istjocklek, med en egen rad i teckenförklaringen (`keys`, [beslut 2026-11-14 om inlandsisen](beslut/2026-11-14-inlandsis-i-istidens-kust.md), #1564).
 
 ## `turer/`: guidade turer (#47)
 

diff --git a/THIRD-PARTY-NOTICES.md b/THIRD-PARTY-NOTICES.md
@@ -17,7 +17,7 @@ Licenserna nedan gäller respektive komponent eller datakälla, inte hela Histor
 |---|---|---|
 | Natural Earth 1:50m och 1:10m | Underlag till grundkartan (1:50m), den finare kusten i det skarpa utsnittet vid inzoomning (1:10m, `data/land-10m.json`) dagens landsgränser via world-atlas 2.0.2 och Europas gräns i upptäcktsvyn (`data/upptackt-europa.json`, 1:50m admin 0 countries, #872) och platsernas gränser (`data/platser.json`, #579: admin 0 via world-atlas för länder, och 1:10m admin 1 version 5.1.2 för län, som Skåne län, med `tools/platser_gransar.py`) | Natural Earth-data är [public domain](https://www.naturalearthdata.com/about/terms-of-use/). [world-atlas 2.0.2:s paketmetadata](https://github.com/topojson/world-atlas/blob/v2.0.2/package.json) anger ISC för paketets kod, enligt dess [licensfil](https://github.com/topojson/world-atlas/blob/v2.0.2/LICENSE); koden ingår inte här. |
 | Cliopatria | Underlag till rikenas och religionslagrens gränser | [CC BY 4.0](https://github.com/Seshat-Global-History-Databank/cliopatria/blob/main/LICENSE.md); [datasetpost på Zenodo](https://zenodo.org/records/13363121). Projektets urval och bearbetning beskrivs i [README](./README.md#licenser). |
-| Wilmes m.fl. (2023), tidvattensimuleringar, och PaleoMIST 1.0 (Gowan 2019, Gowan m.fl. 2021) | Bildlagret Istidens kust (`images/lager/istidens-kust-*.webp`, #1096): rutnäten med land och hav för serien Gowan, gjorda till bilder med `tools/istidens_kust.py` | [CC BY 4.0](https://creativecommons.org/licenses/by/4.0/): [datamängden på Zenodo](https://zenodo.org/records/8147509), [PaleoMIST 1.0 på PANGAEA](https://doi.org/10.1594/PANGAEA.905800) och [artikeln](https://doi.org/10.1038/s41467-021-21469-w). Bearbetningen beskrivs i [README](./README.md#licenser). |
+| Wilmes m.fl. (2023), tidvattensimuleringar, och PaleoMIST 1.0 (Gowan 2019, Gowan m.fl. 2021) | Bildlagret Istidens kust (`images/lager/istidens-kust-*.webp`, #1096): rutnäten med land och hav för serien Gowan och PaleoMIST:s istjocklek (#1564), gjorda till bilder med `tools/istidens_kust.py` | [CC BY 4.0](https://creativecommons.org/licenses/by/4.0/): [datamängden på Zenodo](https://zenodo.org/records/8147509), [PaleoMIST 1.0 på PANGAEA](https://doi.org/10.1594/PANGAEA.905800) och [artikeln](https://doi.org/10.1038/s41467-021-21469-w). Bearbetningen beskrivs i [README](./README.md#licenser). |
 
 ## Länkade kontrollkällor
 
